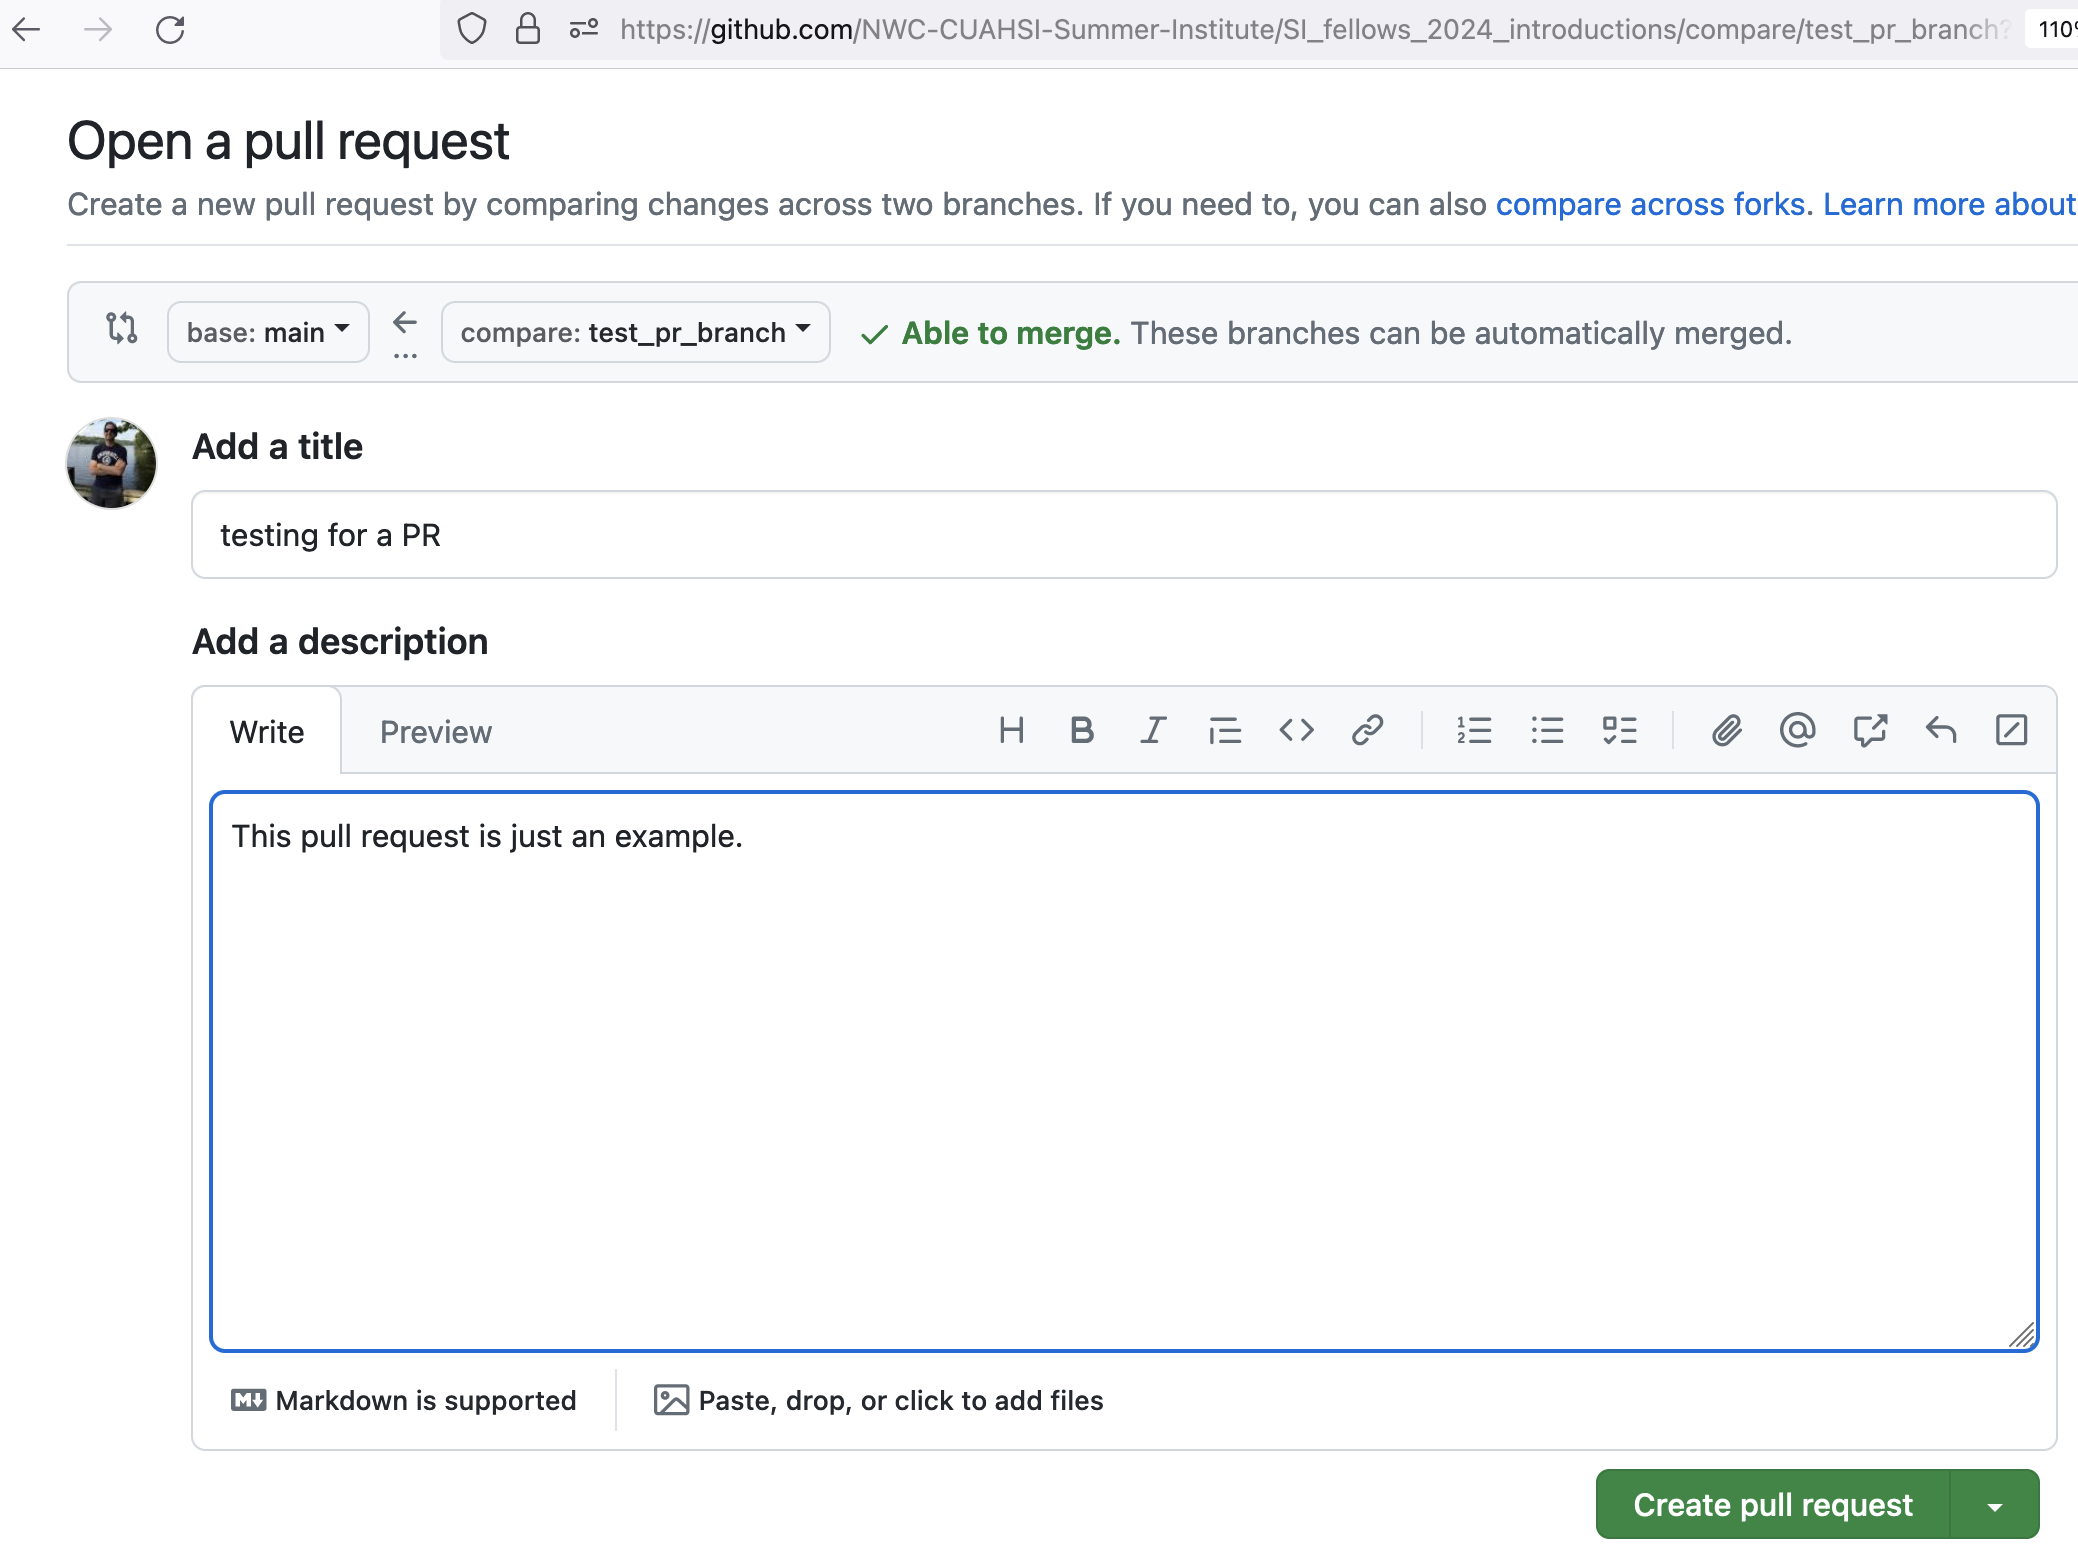
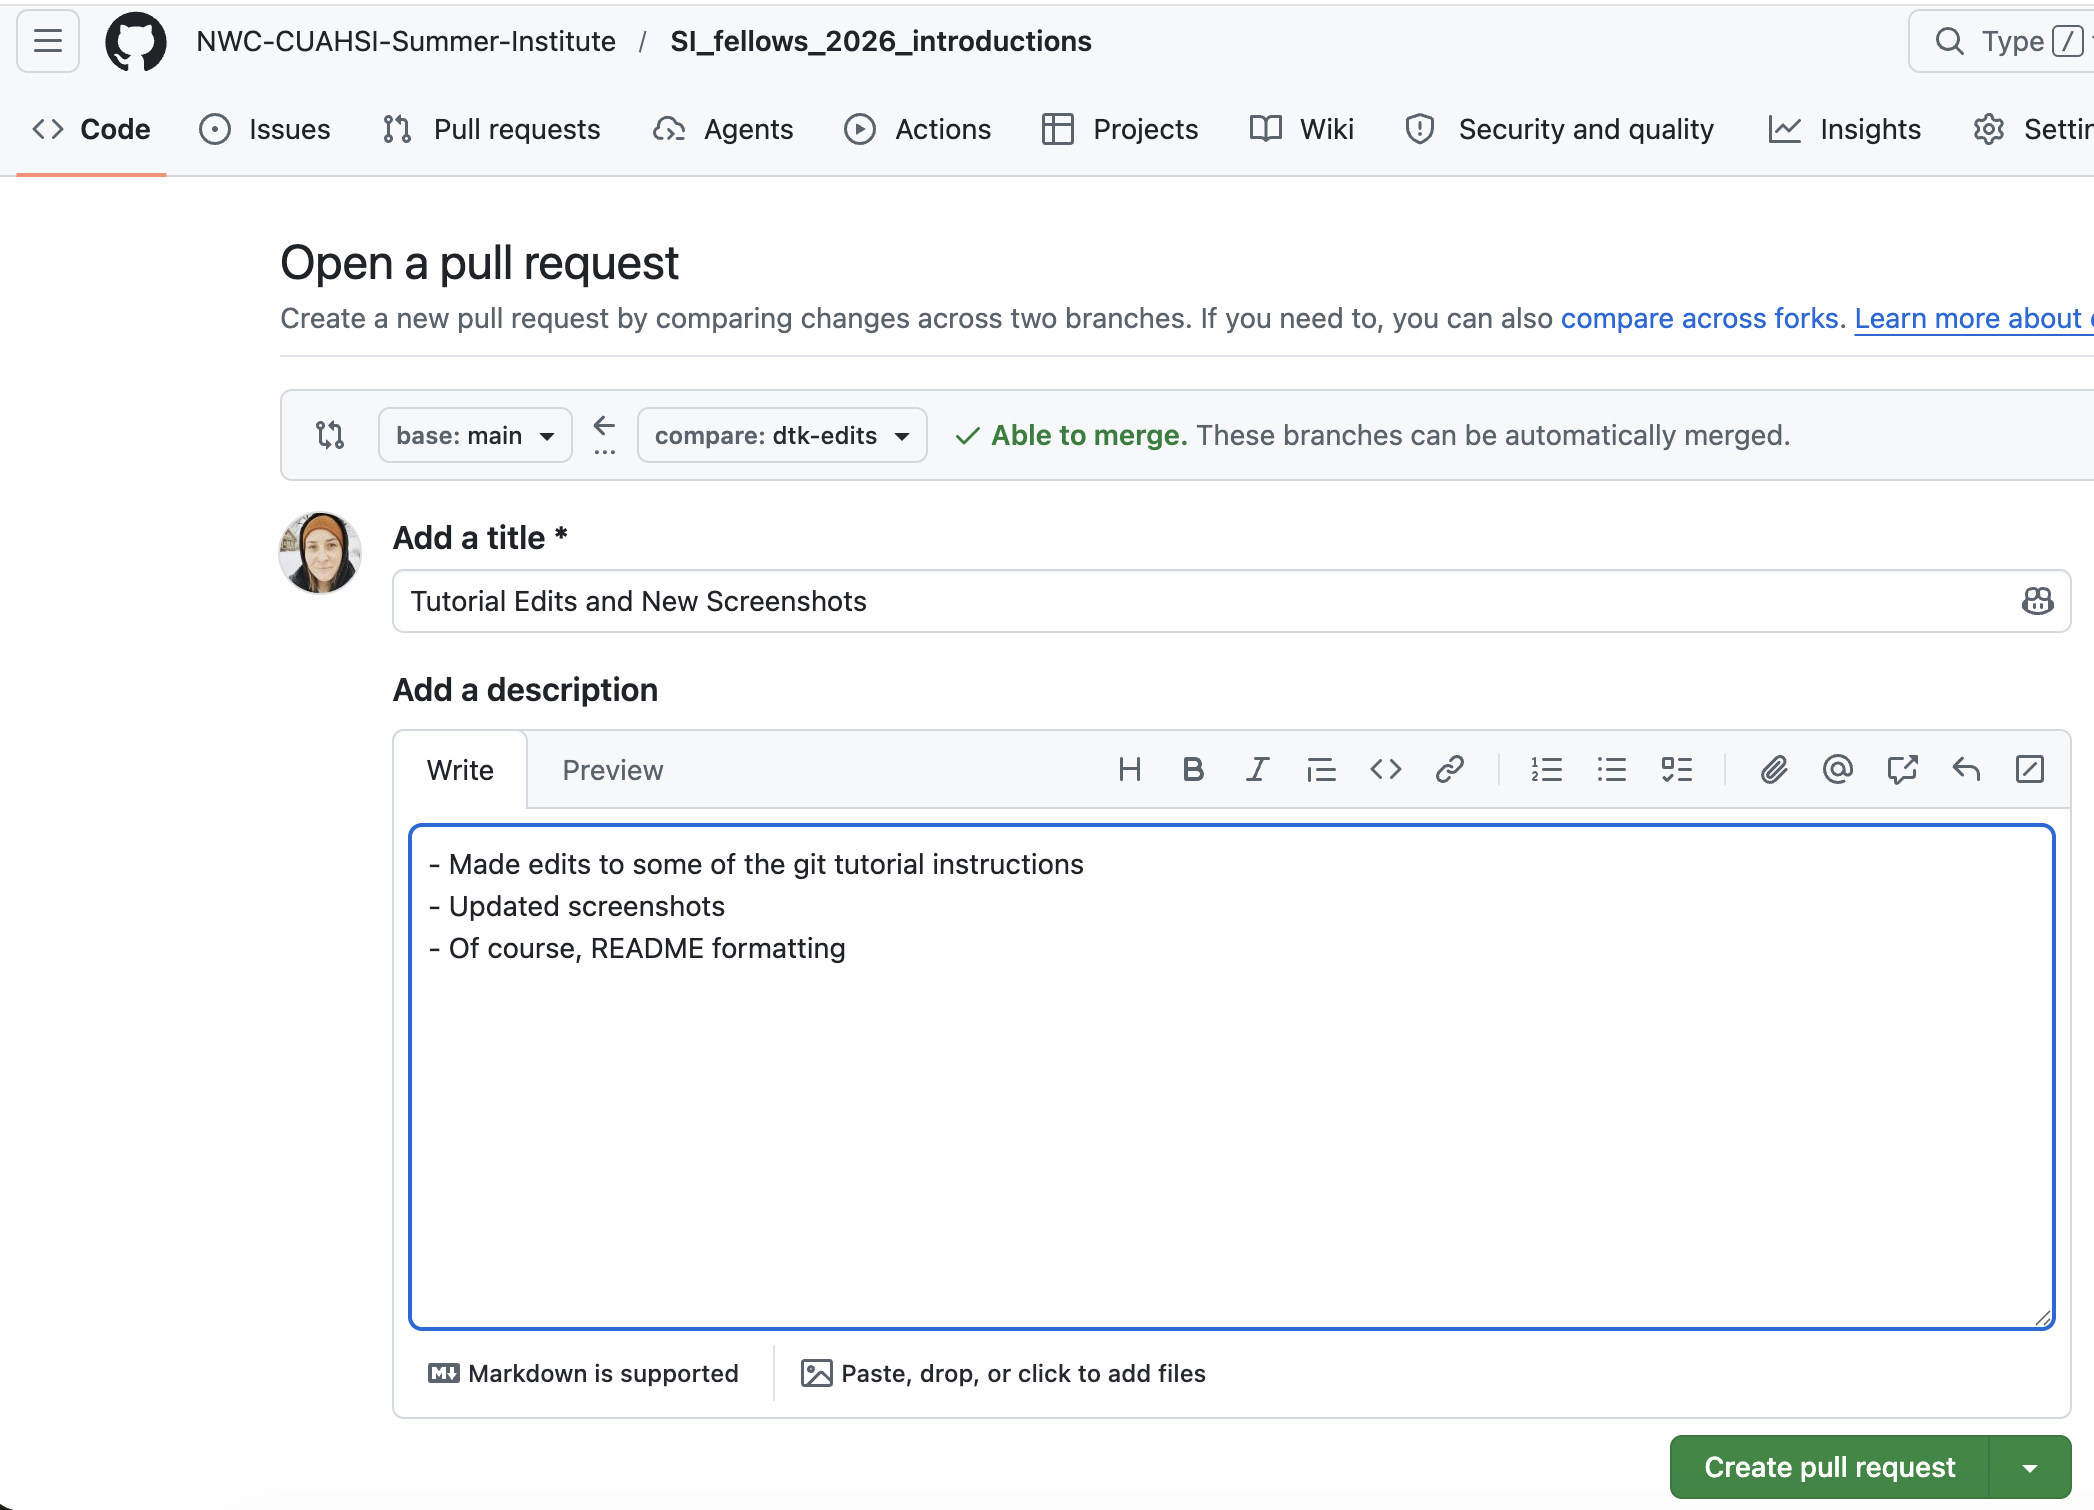
changed out pixelated images and added PR text

diff --git a/README.md b/README.md
@@ -28,9 +28,9 @@ The goal of this training is to familiarize you with the basics of GitHub. You w
 
 For the Summer Institute bootcamp, we’ll use the 2i2c AWI JupyterHub cloud computing platform hosted by The Alabama Water Institute. The administrators have already set this up for you, so should already have access to this platform.
 
-Go to https://ciroh.awi.2i2c.cloud/hub/login and **log in with your GitHub username**.
+1a. Go to https://ciroh.awi.2i2c.cloud/hub/login and **log in with your GitHub username**.
 
-Choose Server Option – Small machine with image: “New Pangeo Notebook base image 2024.04.08” and click the _Start_ button at the bottom of the page. It might take a minute or two to start up. When it starts, it will open up a bash terminal on the right, and a file explorer on the left.  
+1b. **Choose Server Option** – Small machine with image: “New Pangeo Notebook base image 2024.04.08” and click the _Start_ button at the bottom of the page. It might take a minute or two to start up. When it starts, it will open up a bash terminal on the right, and a file explorer on the left.  
  <img src="screenshots/2i2c_small.png" width="90%"/>
 
 > 💡 _**Quick Trick in the JupyterHub**_
@@ -42,11 +42,11 @@ Choose Server Option – Small machine with image: “New Pangeo Notebook base i
 
 The first thing we need to do is to set up our SSH Key to make changes to our _remote_ GitHub Repo.
 
-### 2a. Open a Terminal Window:
+#### 2a. Open a Terminal Window:
 
 Once you launch the 2i2c JupyterHub, if a terminal windown isn't already open, open the _Launcher_ by clicking the <span style="color:#0F52BA">blue rectangle with a "+" sign</span>. There you can select _Terminal_. The following commands should be entered into this terminal.
 
-### 2b. Configure Git:
+#### 2b. Configure Git:
 
 First, tell Git who you are. Replace the examples below with your own information.  
 ❗ _The email used should be the one associated with GitHub_
@@ -67,7 +67,7 @@ You should see something similar to:
 `user.name=Your Name`  
 `user.email=[email redacted]`
 
-### 2c. Create an SSH Key
+#### 2c. Create an SSH Key
 
 SSH keys allow GitHub to recognize your JupyterHub environment securely. To generate a new SSH key, run the following in the Terminal:
 
@@ -92,7 +92,7 @@ Your public key has been saved in /home/jovyan/.ssh/id_ed25519.pub
 
 ## 3. Create a new SSH Authentication Key on Github
 
-### 3a. Copy your SSH key from 2i2c JupyterHub:
+#### 3a. Copy your SSH key from 2i2c JupyterHub:
 
     Before heading over to https://www.github.com, you'll need to copy your SSH key. Print your public key by running:
 
@@ -106,7 +106,7 @@ The output will look something like:
 
 Copy the entire line to your clipboard, making sure to copy everything beginning with `ssh-ed25519` and ending with your email address.
 
-### 3b. Add the SSH Key to Github:
+#### 3b. Add the SSH Key to Github:
 
 Open GitHub on your web browser and do the following:
 
@@ -129,12 +129,14 @@ Click the _Add SSH Key_ button and you're set! GitHub may ask you to confirm you
 
 ## 4. Clone the Repository
 
-### 4a. Copy the SSH Repo Link
+#### 4a. Copy the SSH Repo Link
 
-Go to the GitHub site for our repository: `NWC-CUAHSI-Summer-Institute/SI_fellows_2026_introductions`, and click on the green button and copy the **SSH** address.
-![Copy Repo SSH](screenshots/copy_repo_ssh.png)
+Go to the GitHub site for our repository: `NWC-CUAHSI-Summer-Institute/SI_fellows_2026_introductions`, and click on the green button and copy the **SSH** address.  
+❗ _Because you set up an SSH key on 2i2c, you must use the repository's SSH URL instead of the HTTPS URL to successfully clone!_
 
-### 4b. In Jupyter environment, type:
+![Copy Repo SSH](screenshots/clone_repo_ssh.png)
+
+#### 4b. In Jupyter environment, type:
 
 ```
 git clone [email redacted]:NWC-CUAHSI-Summer-Institute/SI_fellows_2026_introductions.git
@@ -146,11 +148,11 @@ Change directories into the _SI_fellows_2026_introductions_ directory:
 cd SI_fellows_2026_introductions
 ```
 
-## 5. Make a New Branch
+## 5. Make a New Branch For Your Repository Contributions
 
-> _FYI_ - Understand the difference between forks and branches: [Fork vs Branch](https://www.ssw.com.au/rules/fork-vs-branch/).
+> 💡 _FYI_ - Understand the difference between forks and branches: [Fork vs Branch](https://www.ssw.com.au/rules/fork-vs-branch/).
 
-**Create a new branch**:
+Create a new branch:
 
 ```
 git branch [your_branch_name]
@@ -179,7 +181,7 @@ git push --set-upstream origin [your_branch_name]
 > - `--set-upstream` flag links a _**local branch**_ to a _**remote branch**_ so you can run `git push` and `git pull` without specifying the remote name or branch tracking targets every time.
 > - `origin` is just the default name Git gives to the URL of the remote repository you cloned.
 
-> The Arctic ... provides a great [resource on collaborating with Git and information about remote repositories](https://learning.nceas.ucsb.edu/2025-02-arctic/session_08.html).
+> The Arctic Data Center provides a great [resource on collaborating with Git and information about remote repositories](https://learning.nceas.ucsb.edu/2025-02-arctic/session_08.html).
 
 ## 6. Make a New Text File and Add Your Information to it
 
@@ -201,12 +203,15 @@ Before we make a commit, let's check out what the status of our repository is:
 git status
 ```
 
-> 💡 _**Note**_: You'll likely see that the file you just created is red! This means the file is **untracked (or unstaged)**, which means you have created the file in your working directory, but Git is not actively monitoring its changes.
+> 💡 _**Note**_: You'll likely see that the file you just created is <span style="color: red;">red</span>! This means the file is **untracked (or unstaged)**, which means you have created the file in your working directory, but Git is not actively monitoring its changes.
 
 Stage and commit your changes:
 
 ```
 git add <yourName_profile.txt>
+
+git status #your file should show up as green now!
+
 git commit -m "Added my profile file"
 ```
 
@@ -222,12 +227,14 @@ git push
 
 ## 9. Create a Pull Request
 
+A [Pull Request (a.k.a "a PR")](https://docs.github.com/en/pull-requests/collaborating-with-pull-requests/proposing-changes-to-your-work-with-pull-requests/about-pull-requests) is a propsal to merge your code changes into an existing project and is a foundational GitHub **collaboration feature**. Here, we will create a pull request to merge your code from your branch into the main branch.
+
 Go to the [GitHub repository website](https://github.com/NWC-CUAHSI-Summer-Institute/SI_fellows_2026_introductions).
 
 Click the “Compare & pull request” button.  
  <img src="screenshots/pull_request1.png" width="80%"/>
 
-Fill in the pull request details and submit.  
+Fill in the pull request title and description with specific details and submit.  
  <img src="screenshots/pull_request2.png" width="80%"/>
 
 By following these steps, you’ll contribute your changes to the repository and learn the basics of GitHub workflows.